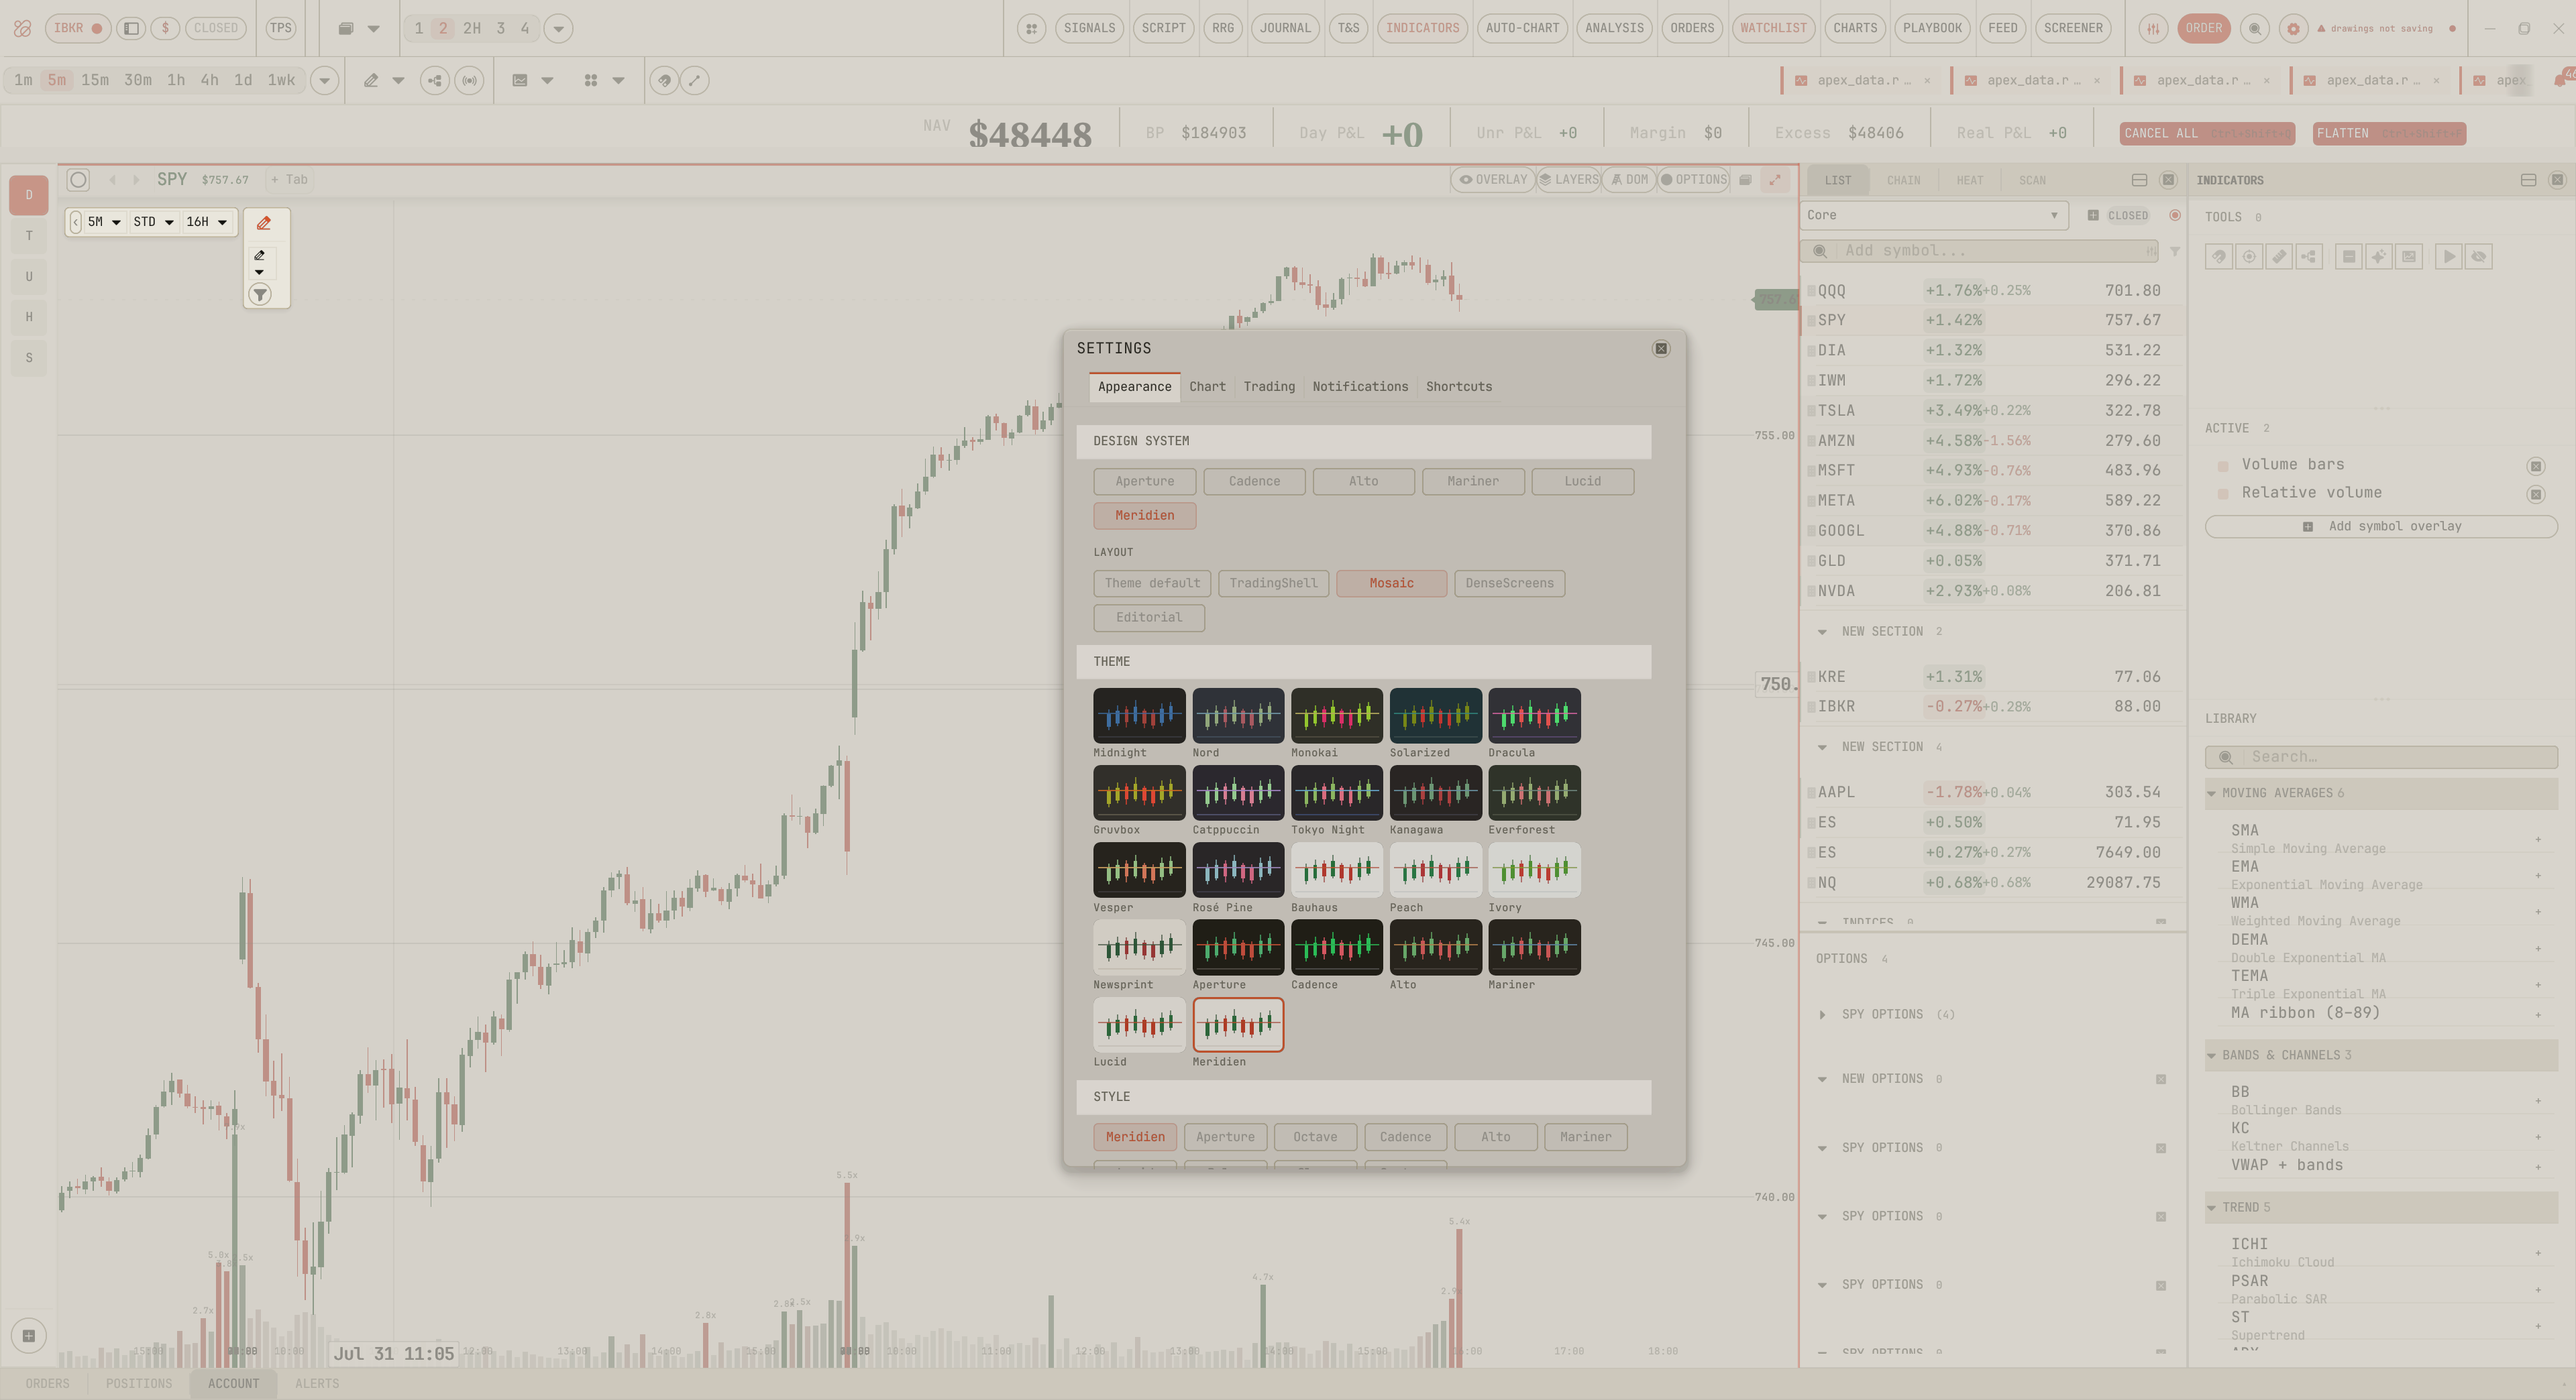
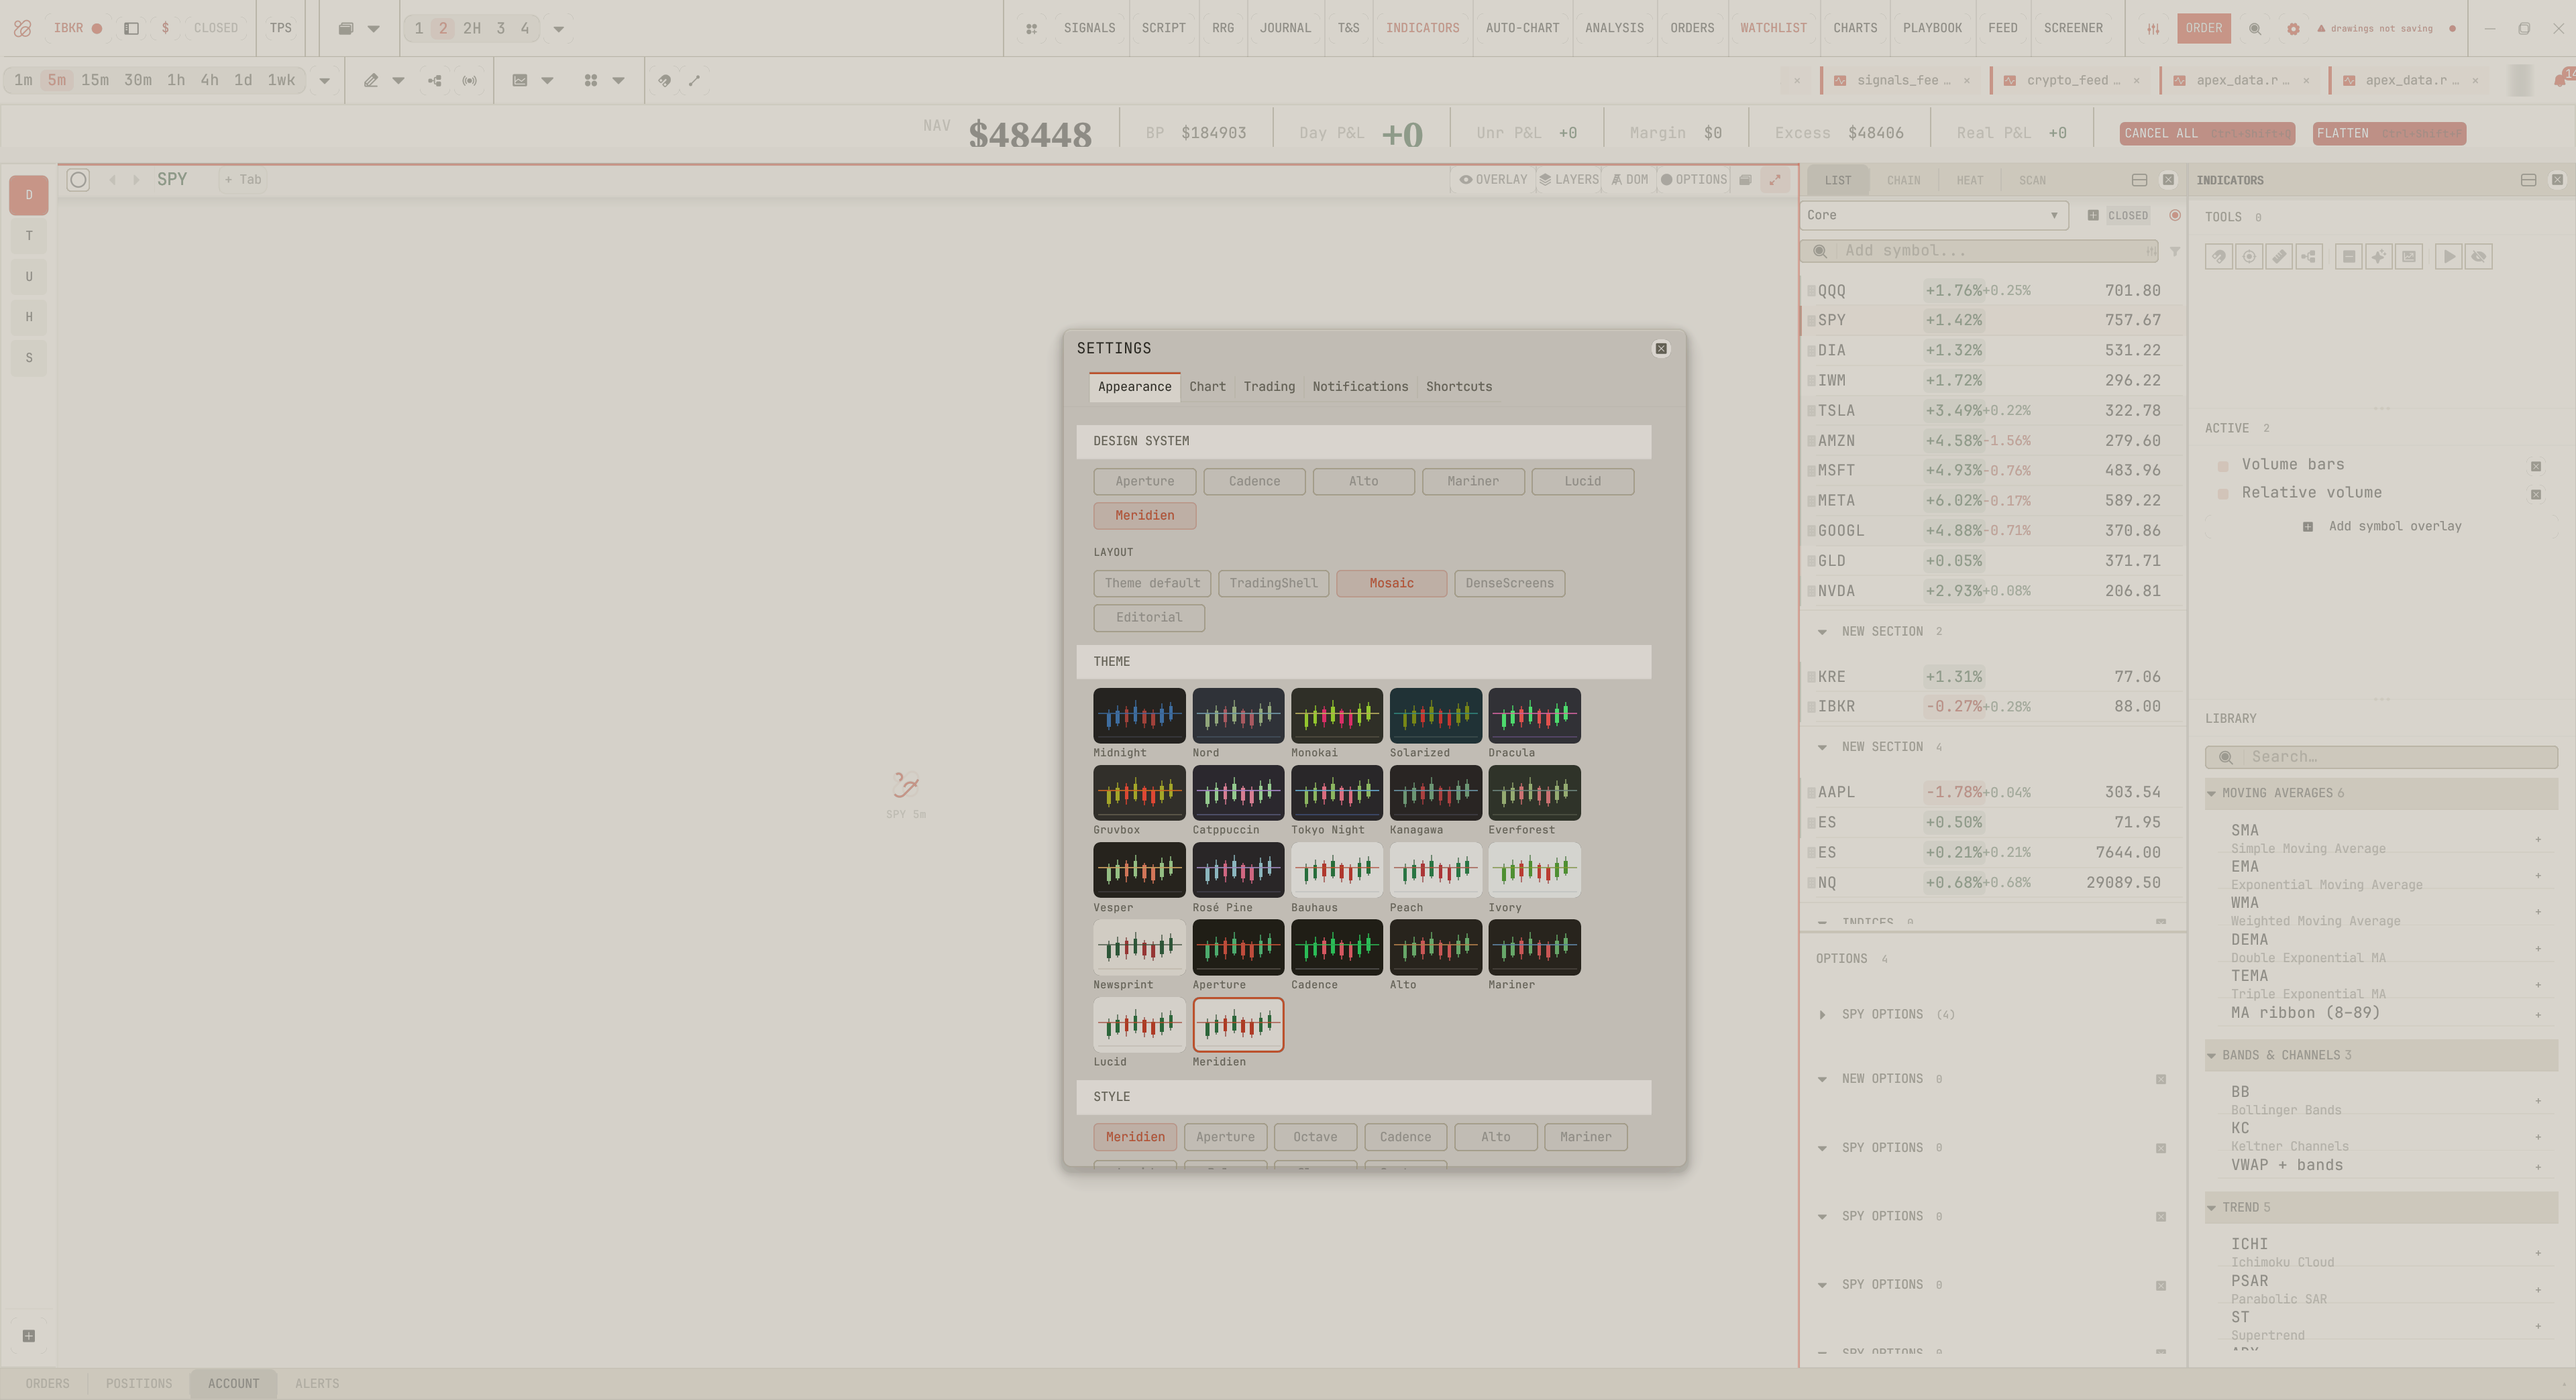
refine: RadiusTier::Pill ignored the theme — Meridien rendered round
Theme-fidelity fix. Meridien's whole signature is MONO / UPPERCASE /
SQUARE, and it authors `pill: 0.0` with the comment "r_pill = 0 (Meridien
sharp pill)" — yet its toolbar chips rendered as full capsules.

`RadiusTier::Pill` resolved to a hardcoded `999.0`, so every recipe
declaring a pill forced a full round in EVERY theme regardless of what
that theme asked for. `builtin_recipes.rs`'s own module doc states the
rule it broke: "Tiers over pixels. `RadiusTier::Pill` / `PadTier::Md`
track the active style." The single line implementing the tier was the
one place that didn't — and `ui_kit/scale.rs` already resolves its own
`Radius::Pill` through the token correctly, so the codebase disagreed
with itself.

Now reads `radius_pill()`. Scoped precisely: only styles authoring a
non-99 pill change — Meridien (0) and Glass (0). Aperture, Cadence, Alto,
Mariner and Lucid all author 99, which still exceeds half of any control
height, so they round exactly as before.

Verified by capture: Meridien's chips are square now; Aperture's are
unchanged.

Two false alarms I chased down rather than "fixed":
- Aperture's IBKR pill lost its fill between captures. That is STATE —
  the fill is driven by `acct_active`, and the account strip was closed
  (confirmed: zero bright pixels in that band).
- Its chip outlines looked gone. They are present — 1536 faint pixels
  across the band — just alpha-18, ~7% contrast, below what the eye picks
[…]

diff --git a/src-tauri/src/ui_kit/sx/recipe_spec.rs b/src-tauri/src/ui_kit/sx/recipe_spec.rs
@@ -223,7 +223,24 @@ impl RadiusTier {
             RadiusTier::Sm   => st::radius_sm(),
             RadiusTier::Md   => st::radius_md(),
             RadiusTier::Lg   => st::radius_lg(),
-            RadiusTier::Pill => 999.0,
+            // Read the style's OWN pill token — do not force a full round.
+            //
+            // This was a hardcoded `999.0`, which made every `RadiusTier::Pill`
+            // recipe render a full pill in EVERY theme. Meridien authors
+            // `pill: 0.0` with the comment "Meridien sharp pill", and its whole
+            // signature is MONO / UPPERCASE / SQUARE — its toolbar chips were
+            // rendering as capsules anyway. Glass authors `pill: 0.0` too.
+            //
+            // The module doc of `builtin_recipes.rs` states the rule this
+            // broke: "Tiers over pixels. `RadiusTier::Pill` / `PadTier::Md`
+            // track the active style." The single line implementing the tier
+            // was the one place that didn't. `ui_kit/scale.rs` already resolves
+            // its own `Radius::Pill` through the token correctly.
+            //
+            // Styles authoring `pill: 99` (Aperture, Cadence, Alto, Mariner,
+            // Lucid) are unchanged — 99 still exceeds half of any control
+            // height, so they still round fully.
+            RadiusTier::Pill => st::radius_pill(),
             RadiusTier::Px(v) => *v,
         }
     }
